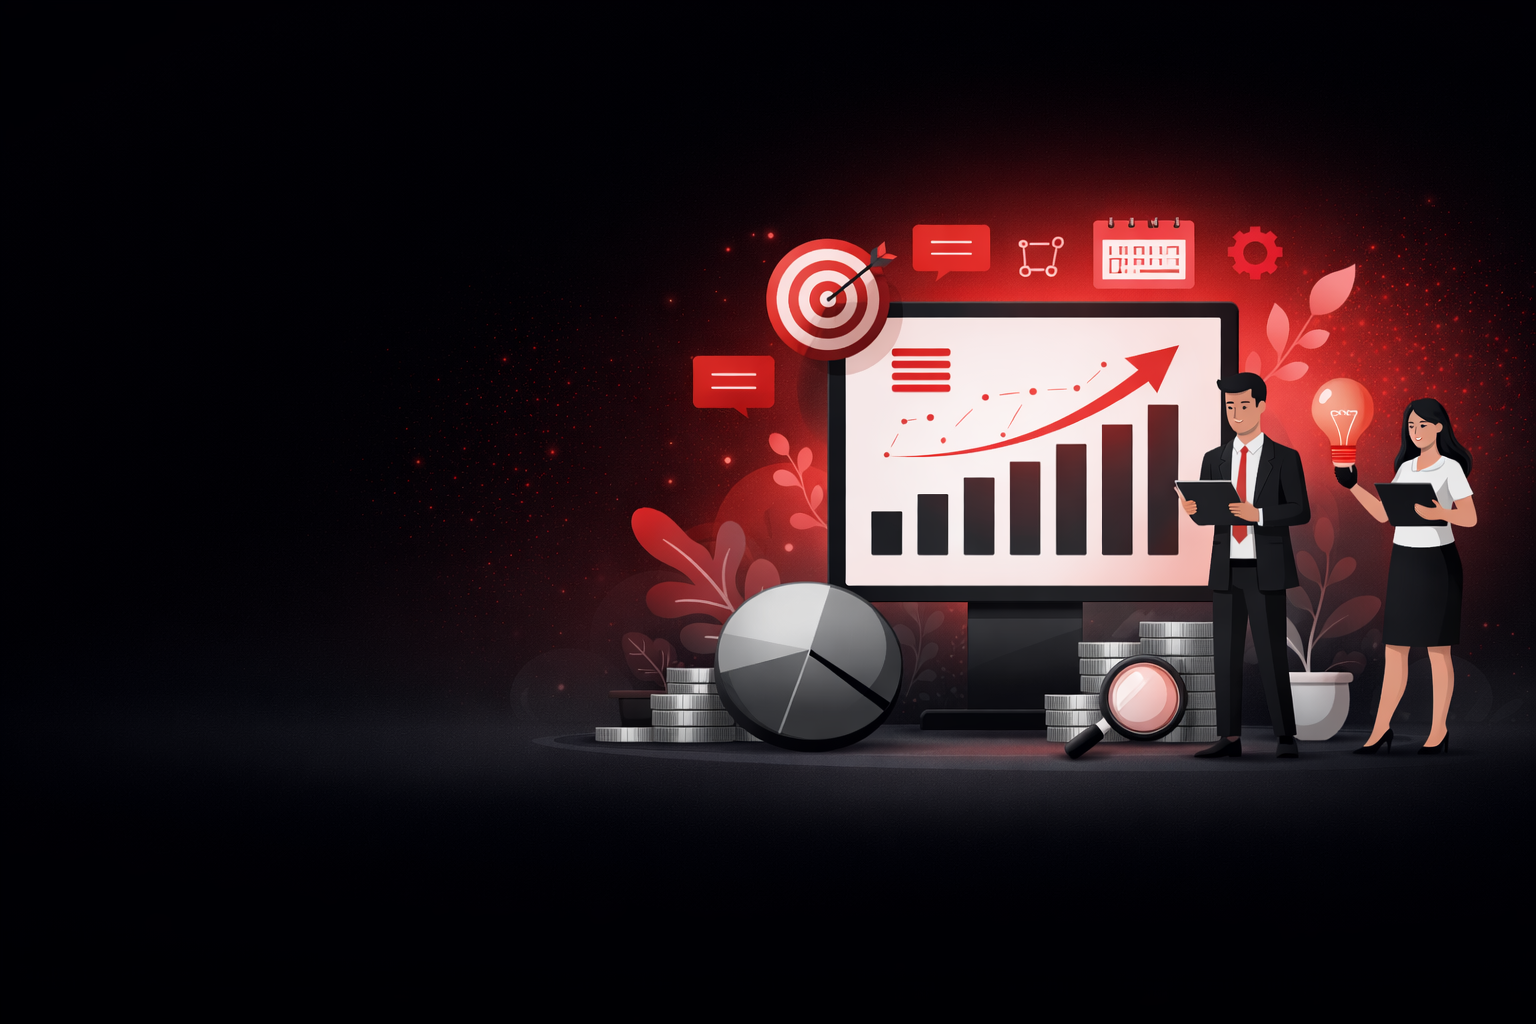
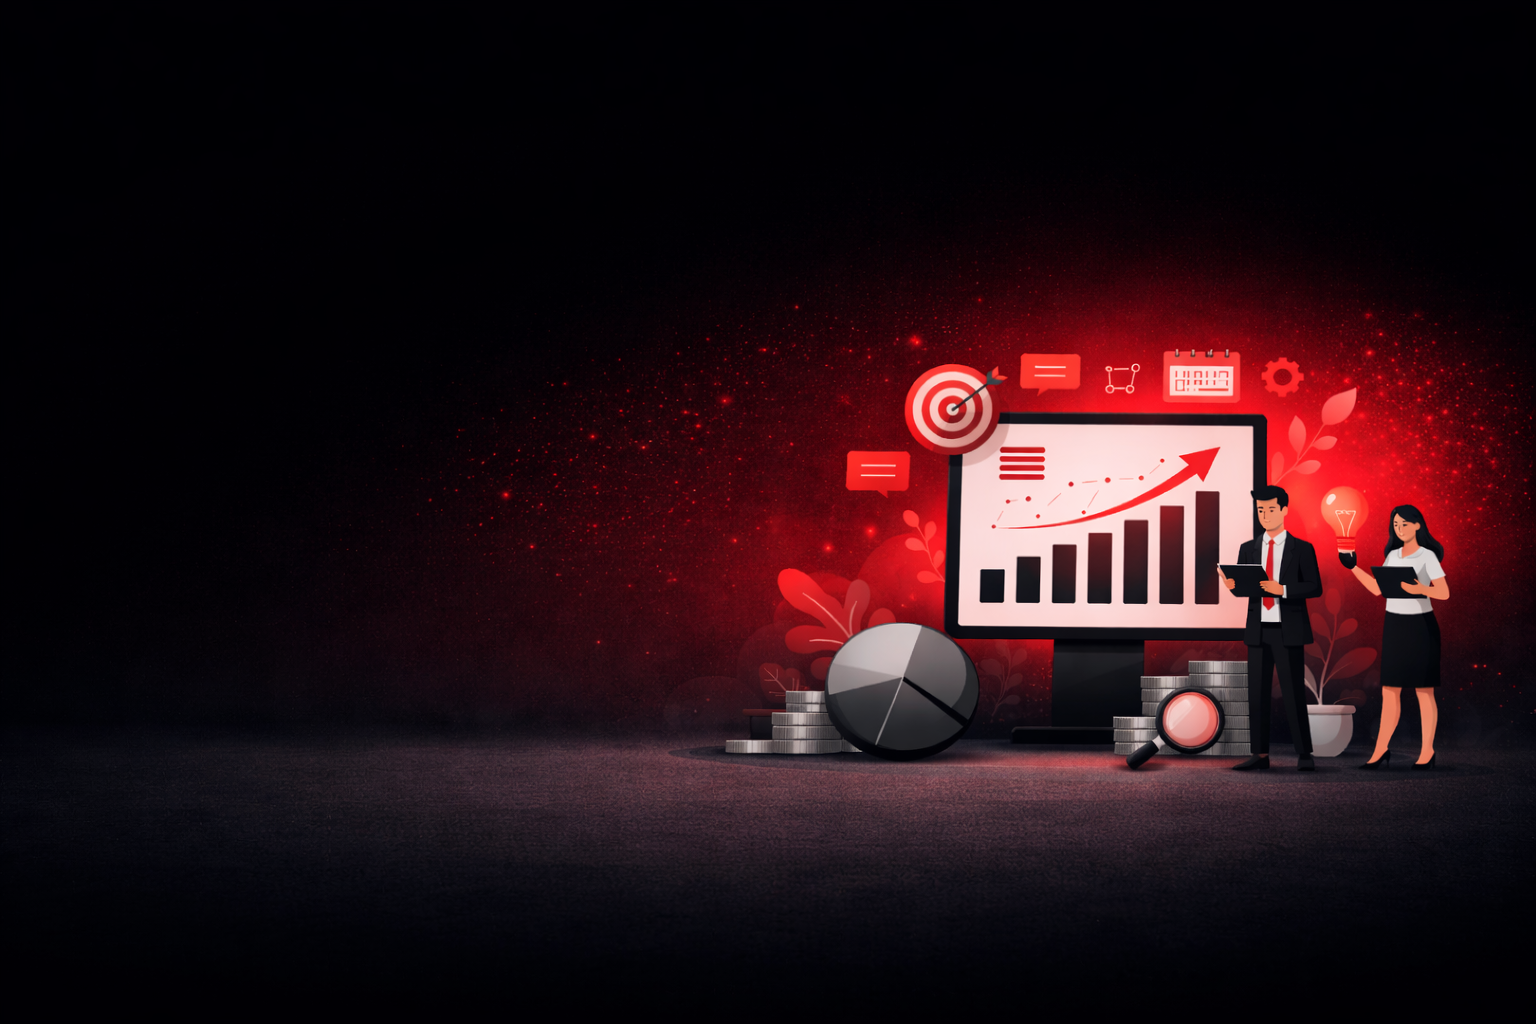
Image & Gooogle Analytics

diff --git a/Frontend/src/pages/home/Home.jsx b/Frontend/src/pages/home/Home.jsx
@@ -9,10 +9,42 @@ import client4 from '../../assets/client/client4.jpg'
 import client5 from '../../assets/client/client5.png'
 // import clientcs from '../../assets/client/clientcs.jpg'
 import WhatsAppButton from '../../components/WhatsAppButton'
+import { Helmet } from "react-helmet-async";
 
 const Home = () => {
     return (
         <>
+
+            <Helmet>
+                <title>
+                    Technoegal Solutions Pvt Ltd | SEO, Web Development & Digital Marketing
+                </title>
+
+                <meta
+                    name="description"
+                    content="Technoegal Solutions Pvt Ltd provides SEO, PPC, Website Development, Social Media Marketing and Performance Marketing services."
+                />
+
+                <meta
+                    name="keywords"
+                    content="SEO company Bhopal, Digital Marketing Agency, Website Development, PPC services, Social Media Marketing"
+                />
+
+                <meta
+                    property="og:title"
+                    content="Technoegal Solutions Pvt Ltd"
+                />
+
+                <meta
+                    property="og:description"
+                    content="Grow your business with SEO, PPC and web development services."
+                />
+
+                <meta
+                    property="og:type"
+                    content="website"
+                />
+            </Helmet>
 
             <WhatsAppButton />
 
@@ -608,7 +640,7 @@ const Home = () => {
                                     rel="noopener noreferrer"
                                 >
                                     24, 1st Floor, Maple High Street<br />
-                                    Narmadapuram Road, Bhopal,<br/> Madhya Pradesh, India - 462026
+                                    Narmadapuram Road, Bhopal,<br /> Madhya Pradesh, India - 462026
                                 </a>
                             </div>
 

diff --git a/Frontend/src/pages/home/Home.scss b/Frontend/src/pages/home/Home.scss
@@ -8,7 +8,8 @@
     .hero-section {
         width: 100%;
         min-height: 100vh;
-        background-image: url("../../assets/landing/landingtest4.png");
+        background-image: url("../../assets/landing/landing.webp");
+        // background-image: url("../../assets/landing/landing4.png");
         background-size: cover;
         background-position: 90% 50%;
         position: relative;
@@ -130,7 +131,8 @@
             .about-image {
                 width: 100%;
                 height: 200px;
-                background: url("../../assets/about/aboutsec.png") center/cover no-repeat;
+                background: url("../../assets/about/aboutsec.WEBP") center/cover no-repeat;
+                // background: url("../../assets/about/aboutsec.png") center/cover no-repeat;
             }
 
             .about-text {

diff --git a/Frontend/index.html b/Frontend/index.html
@@ -10,6 +10,16 @@
   <title>TECHNOEGAL SOLUTIONS</title>
 </head>
 
+<!-- Google tag (gtag.js) -->
+<script async src="https://www.googletagmanager.com/gtag/js?id=G-46N2KWDBX2"></script>
+<script>
+  window.dataLayer = window.dataLayer || [];
+  function gtag() { dataLayer.push(arguments); }
+  gtag('js', new Date());
+
+  gtag('config', 'G-46N2KWDBX2');
+</script>
+
 <body>
   <div id="root"></div>
   <script type="module" src="/src/main.jsx"></script>

diff --git a/Frontend/src/pages/services/Services.scss b/Frontend/src/pages/services/Services.scss
@@ -4,7 +4,8 @@
     .service-hero {
         width: 100%;
         height: 100vh;
-        background: url("../../assets/services/serviceslanding.png") top/cover no-repeat;
+        background: url("../../assets/services/serviceslanding.WEBP") top/cover no-repeat;
+        // background: url("../../assets/services/serviceslanding.png") top/cover no-repeat;
         position: relative;
 
         .overlay {
